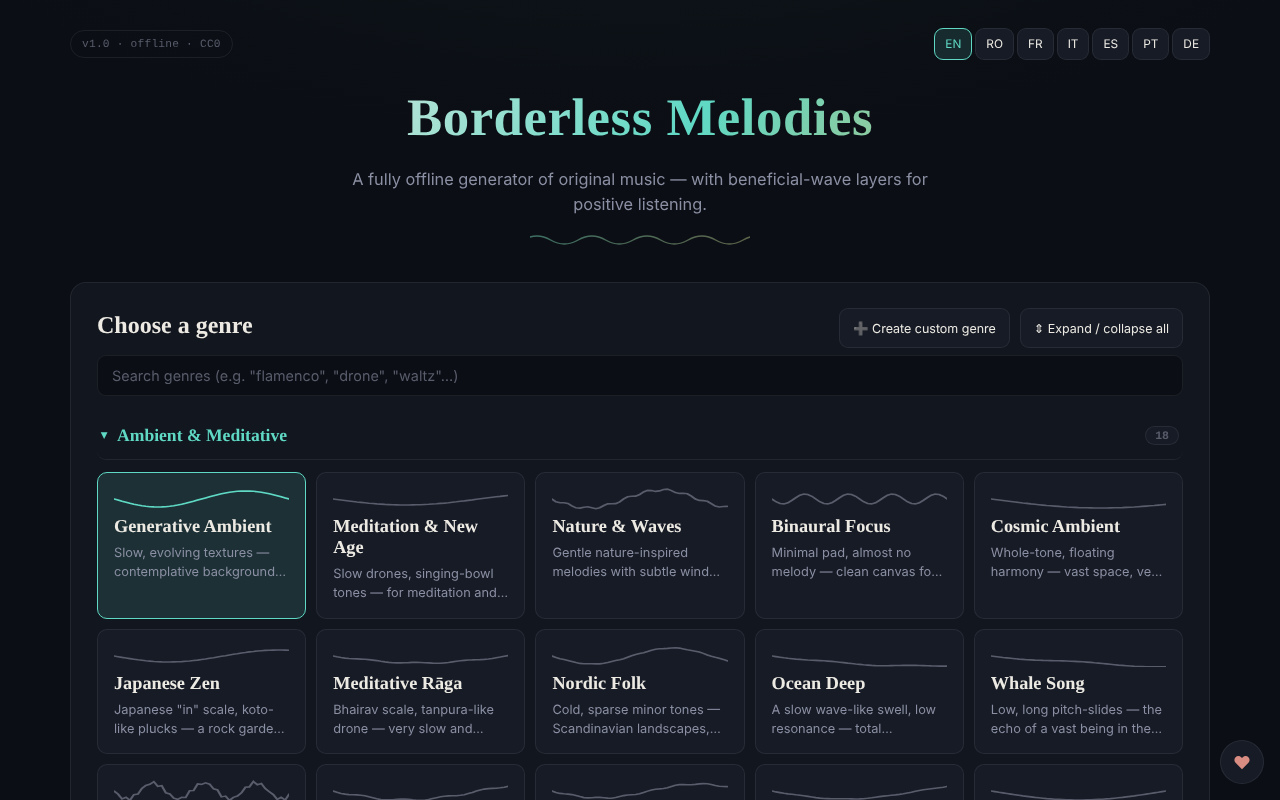
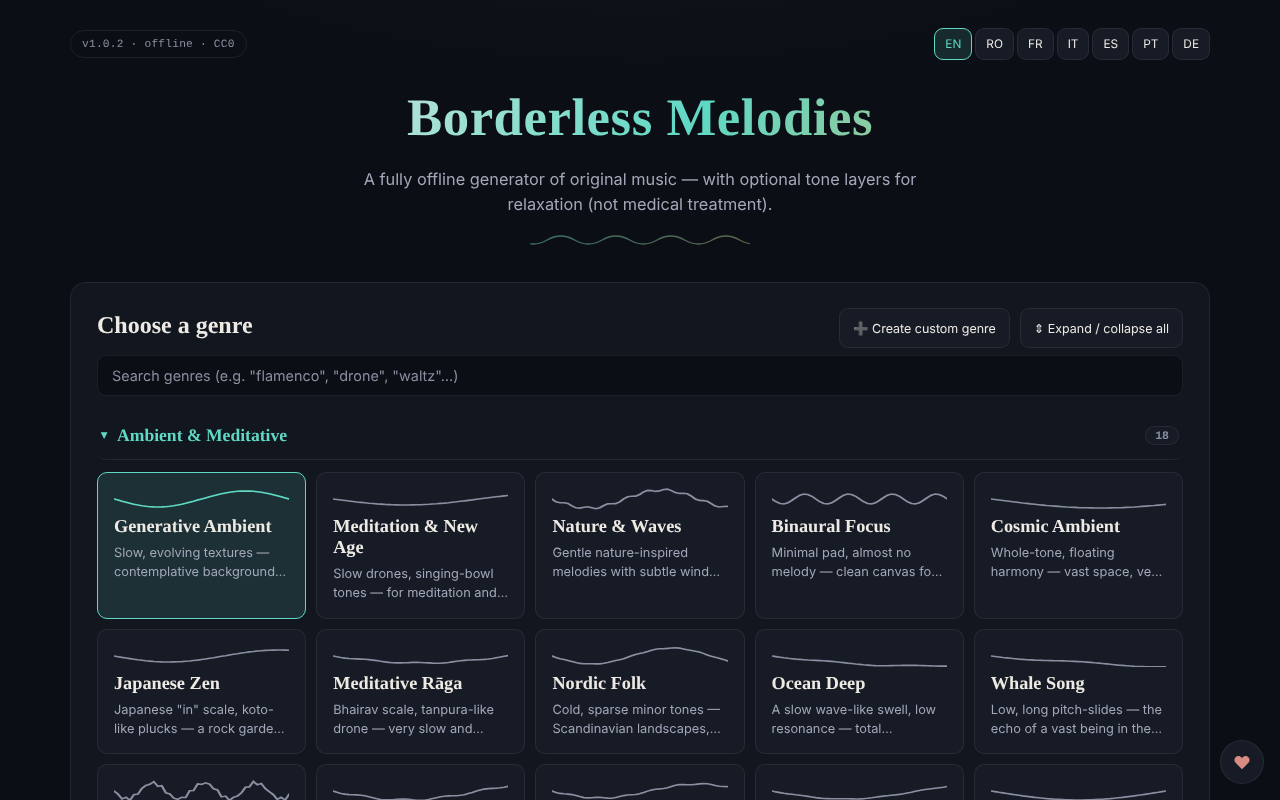
Runda 6 (11 octombrie 2026): reparații și îmbunătățiri
Claude-Session: https://claude.ai/code/session_01D2sCEb3hy3nutYexhUfQFs

diff --git a/index.html b/index.html
@@ -3,7 +3,7 @@
 <head>
 <meta charset="UTF-8">
 <meta name="viewport" content="width=device-width, initial-scale=1.0">
-<meta http-equiv="Content-Security-Policy" content="default-src 'none'; script-src 'unsafe-inline'; style-src 'unsafe-inline'; img-src data: blob:; media-src blob: data:; base-uri 'none'; form-action 'none'">
+<meta http-equiv="Content-Security-Policy" content="default-src 'none'; script-src 'sha256-SVeHSIGteuVFyQMSTU1h0DmhGF7Xk8lCXiM+KhNvPjI='; style-src 'unsafe-inline'; img-src data: blob:; media-src blob: data:; base-uri 'none'; form-action 'none'">
 <title>Borderless Melodies — Original Music Generator</title>
 <style>
 :root{
@@ -306,7 +306,7 @@ footer{text-align:center;color:var(--text-dimmer);font-size:0.79rem;margin-top:2
 <div class="app">
 
   <div class="topbar" role="region" aria-label="Versiune și limbă / Version and language">
-    <span class="badge">v1.0.1 · offline · CC0</span>
+    <span class="badge">v1.0.2 · offline · CC0</span>
     <div class="lang-toggle">
       <button data-lang-btn="en" class="active" aria-pressed="true">EN</button>
       <button data-lang-btn="ro">RO</button>
@@ -575,6 +575,18 @@ footer{text-align:center;color:var(--text-dimmer);font-size:0.79rem;margin-top:2
               <option value="continuous" data-i18n="continuousOpt">Continuous loop</option>
             </select>
           </div>
+          <div class="field-row">
+            <label for="sleepSelect" data-i18n="sleepLabel">Sleep timer</label>
+            <select id="sleepSelect">
+              <option value="0" data-i18n="sleepOff">Off</option>
+              <option value="15">15 min</option>
+              <option value="30">30 min</option>
+              <option value="45">45 min</option>
+              <option value="60">60 min</option>
+              <option value="90">90 min</option>
+            </select>
+          </div>
+          <p class="hint" data-i18n="sleepHint">Fades the volume out over 15 seconds and then stops. The countdown starts at Play and keeps running while paused.</p>
           <div class="btn-row">
             <button id="regenerateBtn" class="btn-accent" data-i18n="regenBtn">↻ Regenerate</button>
           </div>
@@ -2578,7 +2590,31 @@ function getCurrentSettings(){
   };
 }
 
+let sleepTimerId = null, sleepStopId = null;
+function clearSleepTimer(){
+  if (sleepTimerId){ clearTimeout(sleepTimerId); sleepTimerId=null; }
+  if (sleepStopId){ clearTimeout(sleepStopId); sleepStopId=null; }
+}
+// Oprire automată (somn): după N minute de la Play, volumul coboară în 15 s, apoi redarea se oprește.
+function armSleepTimer(){
+  clearSleepTimer();
+  const min = parseInt(document.getElementById('sleepSelect').value,10) || 0;
+  if (!min) return;
+  const FADE = 15;
+  sleepTimerId = setTimeout(function(){
+    sleepTimerId = null;
+    if (!isPlaying || !audioCtx || !masterGain){ stopAll(false); return; }
+    const now = audioCtx.currentTime;
+    try{
+      masterGain.gain.cancelScheduledValues(now);
+      masterGain.gain.setValueAtTime(masterGain.gain.value, now);
+      masterGain.gain.linearRampToValueAtTime(0.0001, now+FADE);
+    }catch(e){}
+    sleepStopId = setTimeout(function(){ sleepStopId = null; stopAll(false); }, FADE*1000+300);
+  }, Math.max(1, min*60-FADE)*1000);
+}
 function stopAll(triggerClosingSound){
+  clearSleepTimer();
   if (continuousTimer){ clearInterval(continuousTimer); continuousTimer=null; }
   if (stopTimeoutId){ clearTimeout(stopTimeoutId); stopTimeoutId=null; }
   const wasPlaying = isPlaying;
@@ -2714,6 +2750,7 @@ function startPlayback(){
   }
 
   isPlaying = true; isPaused = false;
+  armSleepTimer();
   updateTransportUI();
 }
 
@@ -3112,7 +3149,8 @@ function exportSettingsJson(){
   const s = getCurrentSettings();
   const data = { version:'1.0', seed:s.seed, genreKey:s.genreKey, tempo:s.tempo, duration:s.duration,
     entrainEnabled:s.entrainEnabled, entrainMode:s.entrainMode, carrierHz:s.carrierHz, beatHz:s.beatHz,
-    entrainMix: Math.round(s.entrainMix*100) };
+    entrainMix: Math.round(s.entrainMix*100),
+    sleepMin: parseInt(document.getElementById('sleepSelect').value,10) || 0 };
   const blob = new Blob([JSON.stringify(data,null,2)], {type:'application/json'});
   const url = URL.createObjectURL(blob);
   const a = document.createElement('a');
@@ -3127,6 +3165,7 @@ function applyImportedSettings(data){
   if (data.seed!=null) document.getElementById('seedInput').value = data.seed;
   if (data.tempo!=null) document.getElementById('tempoSlider').value = data.tempo;
   if (data.duration!=null && Array.prototype.some.call(document.getElementById('durationSelect').options, function(o){ return o.value===String(data.duration); })) document.getElementById('durationSelect').value = data.duration;
+  if (data.sleepMin!=null && [0,15,30,45,60,90].indexOf(Number(data.sleepMin)) !== -1) document.getElementById('sleepSelect').value = String(Number(data.sleepMin));
   if (data.entrainEnabled!=null) document.getElementById('entrainToggle').checked = data.entrainEnabled;
   if (data.entrainMode && ['pure','binaural','isochronic'].indexOf(data.entrainMode) !== -1){ state.entrainMode = data.entrainMode; updateModeButtons(); }
   if (data.carrierHz!=null) document.getElementById('carrierSlider').value = data.carrierHz;
@@ -3208,6 +3247,8 @@ const I18N = {
     modeLabel:'Mod', modePure:'Ton pur', modeBinaural:'Binaural', modeIso:'Izocronic',
     carrierLabel:'Frecvență purtătoare', beatLabel:'Frecvență bătaie', mixLabel:'Amestec',
     solfNote:'Etichetele frecvențelor „Solfeggio” (eliberare, regenerare, armonie etc.) sunt atribuiri tradiționale/ezoterice, fără dovezi științifice că ar produce efectele indicate; ele rămân simple repere de înălțime a tonului, iar frecvențele „brainwave” (Delta…Gamma) sunt descrieri orientative.',
+    sleepLabel:'Oprire automată (somn)', sleepOff:'Oprit',
+    sleepHint:'Estompează volumul în 15 secunde, apoi oprește redarea. Numărătoarea începe la Play și continuă și în pauză.',
     disclaimer:'Notă: aceste tonuri sunt oferite exclusiv în scop relaxant și experiențial, nu ca tratament medical — dovezile științifice rămân limitate. Dacă suferiți de epilepsie, altă afecțiune neurologică sau sunteți însărcinată, cereți sfatul unui medic înainte de utilizare. Nu ascultați în timp ce conduceți. Opriți dacă simțiți disconfort. Efectul binaural necesită căști stereo.',
     playBtn:'Redă', pauseBtn:'Pauză', stopBtn:'Stop', masterVolLabel:'Volum',
     statusIdle:'Pregătit', statusPlaying:'Se redă', statusPaused:'Pauzat',
@@ -3296,6 +3337,8 @@ const I18N = {
     modeLabel:'Mode', modePure:'Pure tone', modeBinaural:'Binaural', modeIso:'Isochronic',
     carrierLabel:'Carrier frequency', beatLabel:'Beat frequency', mixLabel:'Mix',
     solfNote:'The “Solfeggio” frequency labels (release, restoration, harmony, etc.) are traditional/esoteric attributions with no scientific evidence that they produce the stated effects; treat them as plain pitch references. The brainwave names (Delta…Gamma) are rough descriptions only.',
+    sleepLabel:'Sleep timer', sleepOff:'Off',
+    sleepHint:'Fades the volume out over 15 seconds and then stops. The countdown starts at Play and keeps running while paused.',
     disclaimer:'Note: these tones are offered purely for relaxation and experiential purposes, not as medical treatment — scientific evidence remains limited. If you have epilepsy, another neurological condition, or are pregnant, consult a doctor before use. Do not listen while driving. Stop if you feel discomfort. The binaural effect requires stereo headphones.',
     playBtn:'Play', pauseBtn:'Pause', stopBtn:'Stop', masterVolLabel:'Volume',
     statusIdle:'Ready', statusPlaying:'Playing', statusPaused:'Paused',
@@ -3396,6 +3439,8 @@ const I18N = {
     beatLabel:'Fréquence de battement',
     mixLabel:'Mélange',
     solfNote:'Les étiquettes des fréquences « Solfeggio » (libération, régénération, harmonie, etc.) sont des attributions traditionnelles/ésotériques, sans preuve scientifique des effets indiqués ; ce sont de simples repères de hauteur. Les noms des ondes cérébrales (Delta…Gamma) ne sont que des descriptions indicatives.',
+    sleepLabel:'Minuteur de sommeil', sleepOff:'Désactivé',
+    sleepHint:'Réduit le volume en 15 secondes puis arrête la lecture. Le décompte commence à Lecture et continue en pause.',
     disclaimer:'Remarque : ces tonalités sont proposées uniquement à des fins de relaxation et d\'expérience, et non comme traitement médical — les preuves scientifiques restent limitées. Si vous souffrez d\'épilepsie, d\'une autre affection neurologique, ou si vous êtes enceinte, consultez un médecin avant utilisation. N\'écoutez pas en conduisant. Arrêtez si vous ressentez un inconfort. L\'effet binaural nécessite un casque stéréo.',
     playBtn:'Lecture',
     pauseBtn:'Pause',
@@ -3507,6 +3552,8 @@ const I18N = {
     beatLabel:'Frequenza di battimento',
     mixLabel:'Mix',
     solfNote:'Le etichette delle frequenze «Solfeggio» (liberazione, rigenerazione, armonia, ecc.) sono attribuzioni tradizionali/esoteriche, senza prove scientifiche degli effetti indicati; sono semplici riferimenti di altezza. I nomi delle onde cerebrali (Delta…Gamma) sono solo descrizioni orientative.',
+    sleepLabel:'Timer di spegnimento', sleepOff:'Disattivato',
+    sleepHint:'Abbassa il volume in 15 secondi e poi ferma la riproduzione. Il conto alla rovescia parte con Play e prosegue anche in pausa.',
     disclaimer:'Nota: questi toni sono offerti esclusivamente a scopo rilassante ed esperienziale, non come trattamento medico — le prove scientifiche restano limitate. Se soffri di epilessia, un\'altra condizione neurologica, o sei incinta, consulta un medico prima dell\'uso. Non ascoltare mentre guidi. Interrompi se avverti disagio. L\'effetto binaurale richiede cuffie stereo.',
     playBtn:'Riproduci',
     pauseBtn:'Pausa',
@@ -3618,6 +3665,8 @@ const I18N = {
     beatLabel:'Frecuencia de batido',
     mixLabel:'Mezcla',
     solfNote:'Las etiquetas de las frecuencias «Solfeggio» (liberación, regeneración, armonía, etc.) son atribuciones tradicionales/esotéricas, sin evidencia científica de los efectos indicados; son solo referencias de altura. Los nombres de las ondas cerebrales (Delta…Gamma) son descripciones orientativas.',
+    sleepLabel:'Temporizador de sueño', sleepOff:'Desactivado',
+    sleepHint:'Baja el volumen durante 15 segundos y luego detiene la reproducción. La cuenta atrás empieza con Play y sigue en pausa.',
     disclaimer:'Nota: estos tonos se ofrecen exclusivamente con fines relajantes y experienciales, no como tratamiento médico — la evidencia científica sigue siendo limitada. Si tiene epilepsia, otra afección neurológica, o está embarazada, consulte a un médico antes de usarlo. No escuche mientras conduce. Deténgase si siente malestar. El efecto binaural requiere auriculares estéreo.',
     playBtn:'Reproducir',
     pauseBtn:'Pausa',
@@ -3729,6 +3778,8 @@ const I18N = {
     beatLabel:'Frequência de batimento',
     mixLabel:'Mistura',
     solfNote:'Os rótulos das frequências «Solfeggio» (libertação, regeneração, harmonia etc.) são atribuições tradicionais/esotéricas, sem evidência científica dos efeitos indicados; são apenas referências de altura. Os nomes das ondas cerebrais (Delta…Gamma) são descrições orientativas.',
+    sleepLabel:'Temporizador de sono', sleepOff:'Desativado',
+    sleepHint:'Reduz o volume ao longo de 15 segundos e depois para a reprodução. A contagem começa no Play e continua em pausa.',
     disclaimer:'Nota: estes tons são oferecidos exclusivamente para fins relaxantes e experienciais, não como tratamento médico — as evidências científicas continuam limitadas. Se sofre de epilepsia, outra condição neurológica, ou está grávida, consulte um médico antes de usar. Não ouça enquanto conduz. Pare se sentir desconforto. O efeito binaural requer fones de ouvido estéreo.',
     playBtn:'Reproduzir',
     pauseBtn:'Pausa',
@@ -3840,6 +3891,8 @@ const I18N = {
     beatLabel:'Schwebungsfrequenz',
     mixLabel:'Mischung',
     solfNote:'Die Bezeichnungen der „Solfeggio“-Frequenzen (Loslassen, Regeneration, Harmonie usw.) sind traditionelle/esoterische Zuschreibungen ohne wissenschaftlichen Beleg für die genannten Wirkungen; sie dienen nur als Tonhöhenreferenz. Die Namen der Gehirnwellen (Delta…Gamma) sind lediglich grobe Beschreibungen.',
+    sleepLabel:'Einschlaf-Timer', sleepOff:'Aus',
+    sleepHint:'Blendet die Lautstärke über 15 Sekunden aus und stoppt dann die Wiedergabe. Der Countdown startet mit Play und läuft auch in der Pause weiter.',
     disclaimer:'Hinweis: Diese Töne dienen ausschließlich Entspannungs- und Erfahrungszwecken, nicht als medizinische Behandlung — die wissenschaftliche Evidenz bleibt begrenzt. Bei Epilepsie, einer anderen neurologischen Erkrankung oder Schwangerschaft vor der Nutzung ärztlichen Rat einholen. Nicht beim Autofahren hören. Bei Unwohlsein abbrechen. Der binaurale Effekt erfordert Stereo-Kopfhörer.',
     playBtn:'Wiedergabe',
     pauseBtn:'Pause',
@@ -4068,7 +4121,7 @@ function renderChips(){
   SOLFEGGIO_PRESETS.forEach(function(p){
     const chip = document.createElement('button');
     chip.className = 'chip'; chip.type='button';
-    chip.textContent = (currentLang==='ro' ? p.ro : p.en);
+    chip.textContent = (p[currentLang] || p.en);
     chip.addEventListener('click', function(){
       document.getElementById('carrierSlider').value = p.hz;
       refreshReadouts();
@@ -5133,6 +5186,7 @@ document.addEventListener('DOMContentLoaded', function(){
     playRitualSoundManually(function(c, d, t){ triggerConch(c, d, freq, t, 5, 0.22); });
   });
   document.getElementById('regenerateBtn').addEventListener('click', function(){ startPlayback(); });
+  document.getElementById('sleepSelect').addEventListener('change', function(){ if (isPlaying || isPaused) armSleepTimer(); });
   document.getElementById('randomSeedBtn').addEventListener('click', function(){
     document.getElementById('seedInput').value = Math.floor(Math.random()*1000000);
   });

diff --git a/README.md b/README.md
@@ -2,7 +2,7 @@
 
 Generator de muzică originală, creată algoritmic în browser, cu straturi opționale de tonuri pentru relaxare („Relaxation waves").
 
-**Ultima actualizare:** 11 octombrie 2026 (versiune 1.0.1)
+**Ultima actualizare:** 11 octombrie 2026 (versiune 1.0.2)
 
 **Live:** https://chiuta.github.io/BorderlessMelodies/
 
@@ -19,6 +19,7 @@ Borderless Melodies („Melodii fără frontiere") este un fișier HTML unic car
 - „Relaxation waves": strat auxiliar în modurile Pure tone, Binaural sau Isochronic, cu frecvență purtătoare, frecvență de bătaie și mixaj. Aplicația precizează că sunt oferite doar pentru relaxare, nu ca tratament medical, și conține avertismente (epilepsie, sarcină, condus).
 - „Human voice": strat vocal fără cuvinte, sintetizat prin formanți, cu mai multe caractere (copil, adolescent, adult, senior, robotic melodios).
 - „Gong & conch": gong și scoică sintetizate, apelabile manual sau automat la început/sfârșit.
+- **Oprire automată (somn):** după 15, 30, 45, 60 sau 90 de minute de la Play, volumul coboară în 15 secunde și redarea se oprește (numărătoarea continuă și în pauză; Stop o anulează); valoarea intră în exportul/importul setărilor JSON (`sleepMin`).
 - Redare cu Play/Stop, volum și vizualizator fractal pe ecran complet (2D/3D).
 - Export audio WAV sau FLAC (1-20 min), export/import setări (JSON), copertă generativă (PNG/WebP/JPEG) legată de seed, export video WebM al vizualizatorului.
 - Interfață în 7 limbi: EN, RO, FR, IT, ES, PT, DE.
@@ -38,7 +39,7 @@ Borderless Melodies („Melodii fără frontiere") este un fișier HTML unic car
 ## Confidențialitate și rețea
 
 - Aplicația nu folosește `localStorage`, `sessionStorage` sau IndexedDB: nimic nu este reținut între sesiuni; salvezi doar prin fișierele exportate.
-- Nu efectuează cereri de rețea (nu are `fetch`, CDN-uri sau scripturi externe); pagina are o politică CSP restrictivă (`default-src 'none'`, script/stil inline, imagini și audio doar `data:`/`blob:`). Conține doar link-uri, deschise la click, către trom.tf, Patreon și Buy Me a Coffee.
+- Nu efectuează cereri de rețea (nu are `fetch`, CDN-uri sau scripturi externe); pagina are o politică CSP restrictivă (`default-src 'none'`, script permis doar prin hash `sha256`, fără `'unsafe-inline'` la scripturi; stil inline, imagini și audio doar `data:`/`blob:`). Conține doar link-uri, deschise la click, către trom.tf, Patreon și Buy Me a Coffee.
 
 ## Avertisment
 
@@ -65,6 +66,7 @@ Alexio — Alexandru-Ionuț Chiuță, contact: alexio@trom.tf
 Borderless Melodies is a single-file HTML generator of original music synthesised procedurally in the browser (Web Audio), with custom genres, optional binaural/isochronic layers, a wordless synthesised voice, gong and conch, a fractal visualizer, and export to WAV/FLAC, cover art and WebM video. 7 UI languages. It stores nothing and makes no network requests.
 
 ## Istoric / Changelog
+- **1.0.2 — 11 octombrie 2026:** oprire automată (somn) cu estompare de 15 s, inclusă în setările exportate/importate (valorile necunoscute sunt ignorate la import); etichetele frecvențelor Solfeggio sunt acum afișate în limba interfeței (înainte apăreau în engleză în FR/IT/ES/PT/DE); CSP cu hash `sha256` pentru script (fără `'unsafe-inline'` la `script-src`); textele noi sunt în cele 7 limbi; testat cu CSP activ (0 erori) și axe-core 0 violări la 1280×800 și 360×740.
 
 - **1.0.1 — 11 octombrie 2026:** exportul audio este mai reproductibil: zgomotul, reverb-ul, gongul și scoica folosesc la export un generator pseudo-aleator derivat din seed (înainte foloseau `Math.random`). Limită rămasă: două exporturi cu aceleași setări diferă încă cu ±1 LSB în ~0,05% din eșantioane (măsurat la 1 min de audio), deci nu sunt bit-cu-bit identice, din cauza aritmeticii în virgulă mobilă a motorului audio al browserului.
 - Sub frecvențele „Solfeggio” a apărut o notă în 7 limbi: etichetele (eliberare, regenerare, armonie…) sunt atribuiri tradiționale/ezoterice, fără dovezi științifice; la fel numele undelor cerebrale sunt orientative.
